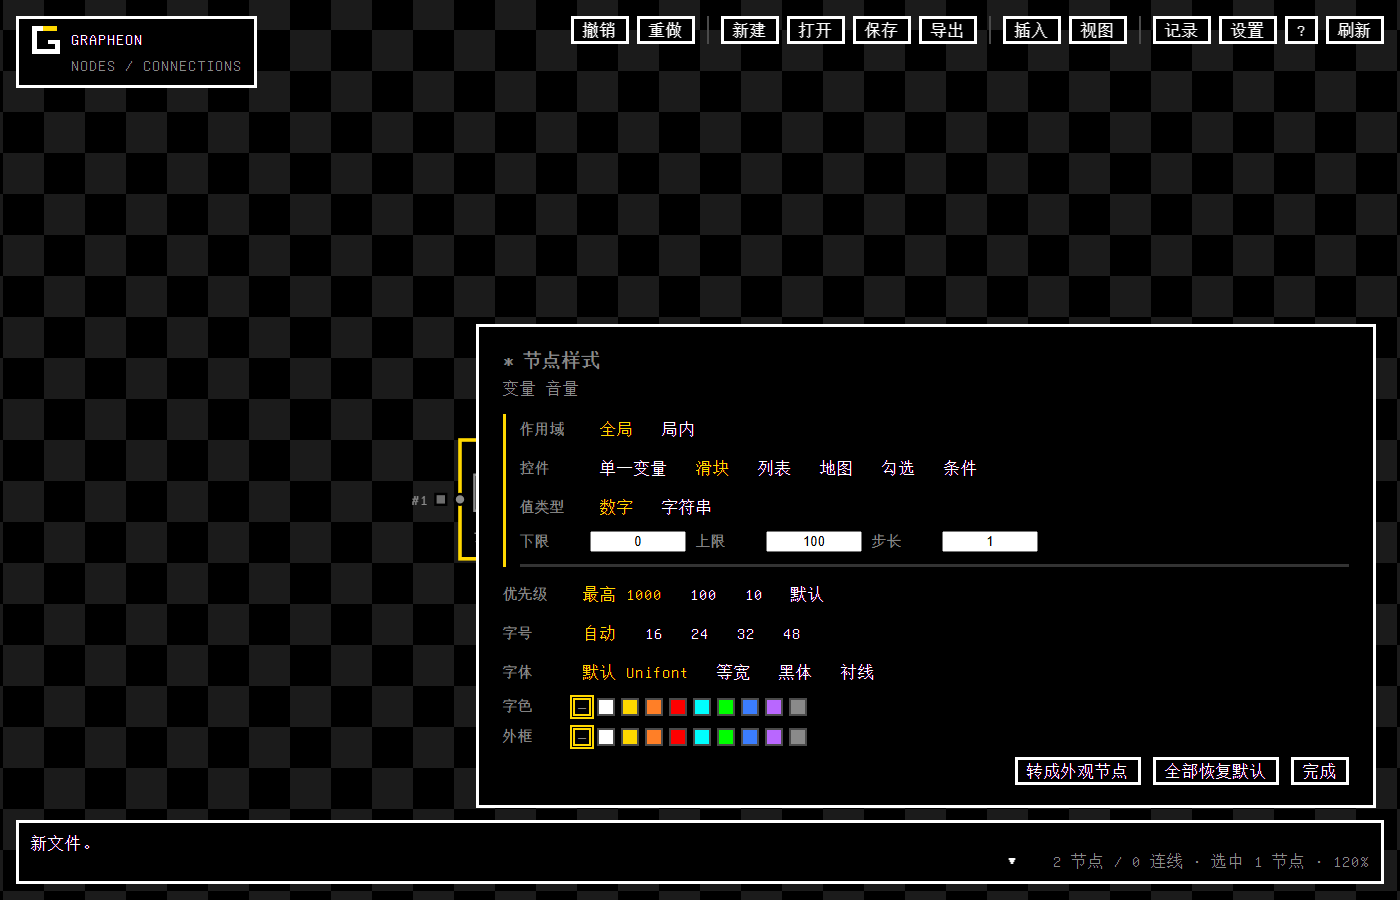
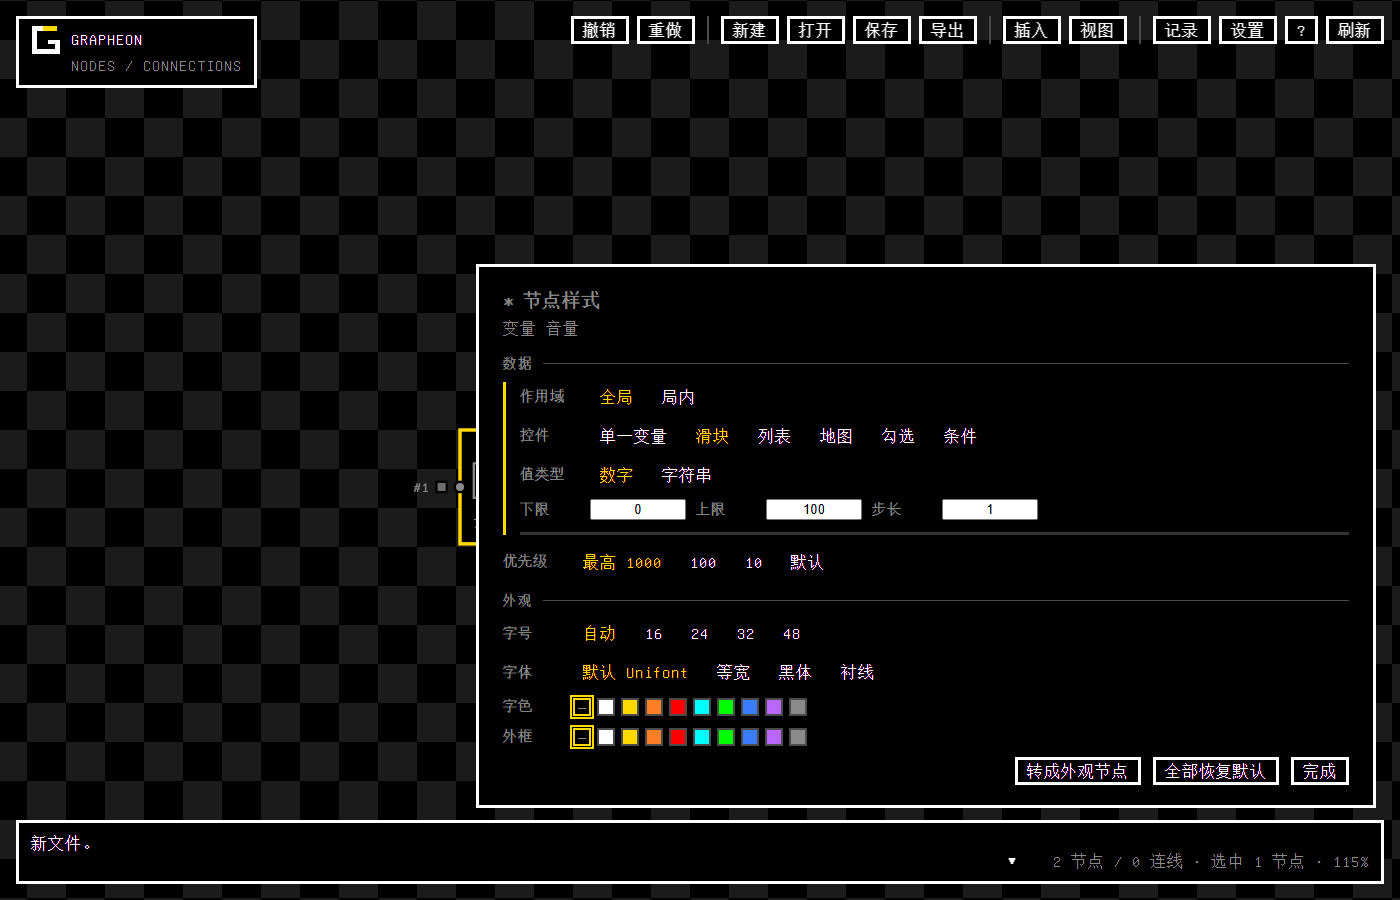
UI 瘦身第三步：参数面板加分组标题（数据 / 外观）
十几行控件平铺下来没有视觉层次，找一样东西要一行行扫。
现在分两块，各一个小标题 + 一条细线：

  数据   作用域 / 控件 / 值类型 / 内容 / 上下限 / 优先级
  外观   算符 / 字号 / 字体 / 字色 / 外框

· .gsec 共用样式（小字 + 右侧细线），四个面板都适用
· 修一处插入错误：外观标题一开始插进了「优先级」那个 row 里面

顺带复查了显示问题（程序扫溢出，五个主题 × 六个面板）：
报告的「溢出」全是有意的滚动区（帮助 / 设置 / 记录列表都是 overflow:auto），
唯一的真实差异是亚像素级横向 1~2px（色板选中态的 outline 撑的，肉眼不可见）。
没有发现真实显示问题。

2038 项断言全过。

Changed region(s): [[0.0, 0.0, 1.0, 1.0]]

diff --git a/styles/theme-undertale.css b/styles/theme-undertale.css
@@ -135,6 +135,17 @@ body.pressed #cross .dot{opacity:1;fill:var(--y)}
 /* 行距也收一点：14px × 十行就是 140px 的空 */
 #exp .row,#edgebox .row,#endbox .row,#nodebox .row{display:flex;align-items:center;gap:10px;margin-bottom:9px}
 /* 标签列收窄：110px 十行下来，左边空出一大片，右边内容反被挤 */
+/* 分组标题：一条细线 + 一个小字，把十几行控件分成几块。
+   没有它，十一行平铺下来找一样东西要一行行扫。 */
+#exp .gsec,#edgebox .gsec,#endbox .gsec,#nodebox .gsec{
+  color:var(--g);font-size:13px;letter-spacing:2px;margin:14px 0 8px;
+  display:flex;align-items:center;gap:10px;
+}
+#exp .gsec::after,#edgebox .gsec::after,#endbox .gsec::after,#nodebox .gsec::after{
+  content:"";flex:1;height:1px;background:var(--d);
+}
+#exp .gsec:first-of-type,#edgebox .gsec:first-of-type,
+#endbox .gsec:first-of-type,#nodebox .gsec:first-of-type{margin-top:4px}
 #exp .lab,#edgebox .lab,#endbox .lab,#nodebox .lab{
   width:60px;flex:none;color:var(--g);font-size:14px;
 }

diff --git a/index.html b/index.html
@@ -178,6 +178,7 @@
 <div id="nodebox" class="ud">
   <h2>* 节点样式</h2>
   <div class="sub" id="nbSub"></div>
+  <div class="gsec">数据</div>
   <div id="nbVarSec" class="progsec">
     <div class="row">
       <span class="lab">作用域</span>
@@ -223,6 +224,7 @@
     <span class="lab">优先级</span>
     <div id="nbPrio" class="opts"></div>
   </div>
+  <div class="gsec">外观</div>
   <div id="nbProg" class="progsec">
     <div class="row">
       <span class="lab">作用</span>
